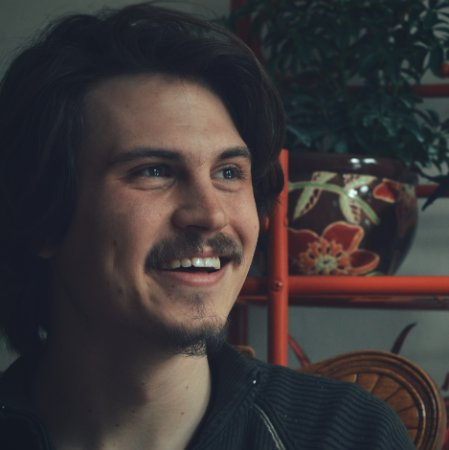
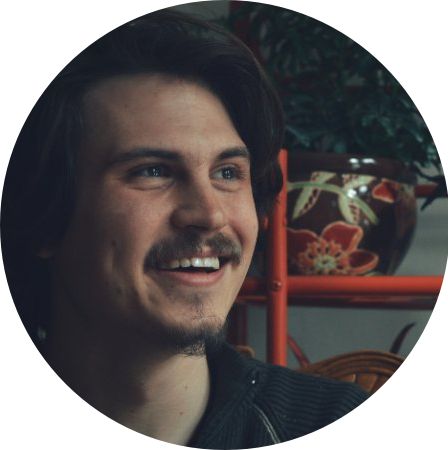
add new circle images

Changed region(s): [[0.0, 0.56, 1.0, 1.0], [0.0, 0.0, 0.4688, 0.4667], [0.5625, 0.0, 1.0, 0.4044]]

diff --git a/content/about_us/_index.md b/content/about_us/_index.md
@@ -82,7 +82,7 @@ We’re a passionate team with deep expertise in group process facilitation, soc
       <p>Senior developer, DevOps, architecture. Thinks up ideas and writes them into software</p>
     </td>
     <td>
-      <img src="jody.jpg" />
+      <img src="jody.png" />
     </td>
     <td style="width: 50%;">
       <strong>Jody Connor</strong>
@@ -91,14 +91,14 @@ We’re a passionate team with deep expertise in group process facilitation, soc
   </tr>
   <tr style="border-bottom: 15px solid transparent; border-top: 15px solid transparent;">
     <td>
-      <img src="iain.jpg" />
+      <img src="iain.png" />
     </td>
     <td style="width: 50%;">
       <strong>Iain Kirkpatrick</strong>
       <p>Software developer, old cartographer, new systems dreamer, basketball fanatic</p>
     </td>
     <td>
-      <img src="kathleen.jpeg" />
+      <img src="kathleen.png" />
     </td>
     <td style="width: 50%;">
       <strong>Kathleen Wright</strong>
@@ -107,7 +107,7 @@ We’re a passionate team with deep expertise in group process facilitation, soc
   </tr>
   <tr style="border-bottom: 15px solid transparent; border-top: 15px solid transparent;">
     <td>
-      <img src="greg.jpg" />
+      <img src="greg.png" />
     </td>
     <td style="width: 50%;">
       <strong>Greg Kan</strong>
